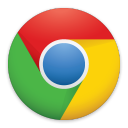
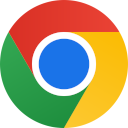
Actualiza comprobación de bots y browsers
Simplifica y optimiza la comprobación de nombres de bot y de versión de
navegador.

Añade nuevos bots admitidos y normaliza su comprobación usando
minúsculas.

Elimina posibilidad de aceptar un navegador por su versión de webkit, ya
que actualmente es un valor legacy que todos cumplen.

Elimina enlace de descarga de Safari y añade el de Edge.

Actualiza logos de navegadores recomendados.

diff --git a/client-app/src/app/component/CheckBrowser.js b/client-app/src/app/component/CheckBrowser.js
@@ -18,37 +18,40 @@ define([
 			name: 'safari',
 			version: 14
 		},{
-			name: 'webkit',
-			version: 537.36
+			name: 'opr',
+			version: 72
 		}],
 
-		_allowedBots: ['Googlebot', 'bingbot'],
+		_allowedBots: [
+			'googlebot'
+			, 'duckduckgo'
+			, 'bingbot',
+			, 'slurp'
+			, 'applebot'
+		],
 
 		isSupported: function() {
 
-			var userAgent = navigator && navigator.userAgent,
-				i;
+			var userAgent = navigator && navigator.userAgent;
 
-			if (userAgent) {
-				for (i = 0; i < this._allowedBots.length; i++) {
-					var allowedBotFragment = this._allowedBots[i];
-					if (userAgent.indexOf(allowedBotFragment) !== -1) {
-						return true;
-					}
-				}
+			if (userAgent && this._allowedBots.find(lang.hitch(this, this._findBotAgent, userAgent))) {
+				return true;
 			}
 
-			for (i = 0; i < this._supportedBrowsersAndMinVersion.length; i++) {
-				var item = this._supportedBrowsersAndMinVersion[i],
-					name = item.name,
-					version = item.version;
+			return !!this._supportedBrowsersAndMinVersion.find(lang.hitch(this, this._findSupportedBrowser));
+		},
 
-				if (has(name) >= version) {
-					return true;
-				}
-			}
+		_findBotAgent: function(userAgent, allowedBotFragment) {
 
-			return false;
+
+			return userAgent.toLowerCase().includes(allowedBotFragment);
+		},
+
+		_findSupportedBrowser: function(item) {
+
+			var browserVersion = has(item.name);
+
+			return browserVersion && browserVersion >= item.version;
 		}
 	};
 });

diff --git a/client-app/src/oldapp/views/templates/NoSupportBrowser.html b/client-app/src/oldapp/views/templates/NoSupportBrowser.html
@@ -1,16 +1,16 @@
 <div class="fHeight fWidth">
 	<div class="fHeight fWidth noSupport">
 		<h2 class="textNoSupport titleRedmic">${i18n.noSupport}</h2>
-		<a href="https://www.mozilla.org/es-ES/firefox/" target="_blank">
-			<img class="" src="/res/images/browsers/ff.png">
+		<a href="https://www.mozilla.org/firefox/" target="_blank">
+			<img class="" src="/res/images/browsers/firefox.png">
 		</a>
 		<a href="https://www.google.com/chrome/" target="_blank">
 			<img class="iconMargin" src="/res/images/browsers/chrome.png">
 		</a>
-		<a href="https://support.apple.com/es_ES/downloads/safari" target="_blank">
-			<img class="iconMargin" src="/res/images/browsers/safari.png">
+		<a href="https://www.microsoft.com/edge/download/" target="_blank">
+			<img class="iconMargin" src="/res/images/browsers/edge.png">
 		</a>
-		<a href="http://www.opera.com/es" target="_blank">
+		<a href="http://www.opera.com/" target="_blank">
 			<img class="iconMargin" src="/res/images/browsers/opera.png">
 		</a>
 	</div>
